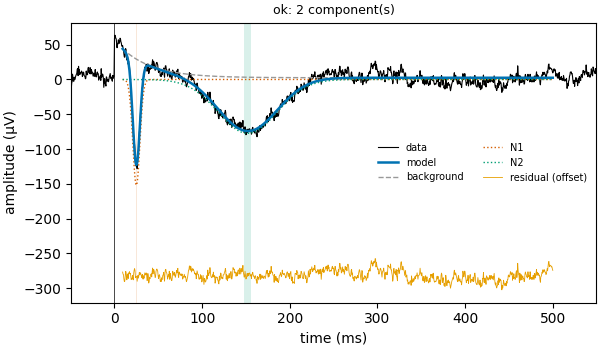
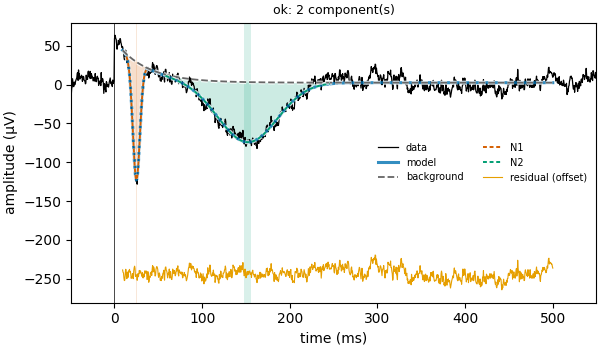
Rebuild the website: filled component areas in plot_fit

diff --git a/searchindex.js b/searchindex.js
@@ -1,1 +1,1 @@
-Search.setIndex({"alltitles":{"01: Model description":[[1,null]],"Computation times":[[2,null],[4,null]],"Conceptual overview":[[1,"conceptual-overview"]],"Conclusion":[[1,"conclusion"]],"Describing the curve":[[1,"describing-the-curve"]],"Get started":[[3,"get-started"]],"Install":[[3,"install"]],"Introduction":[[1,"introduction"]],"Making an example curve":[[1,"making-an-example-curve"]],"Mathematical description":[[1,"mathematical-description"]],"Reading the numbers on the curve":[[1,"reading-the-numbers-on-the-curve"]],"Trying another curve":[[1,"trying-another-curve"]],"Tutorials":[[0,null]],"evoparam":[[3,null]]},"docnames":["auto_tutorials/index","auto_tutorials/plot_01_model_description","auto_tutorials/sg_execution_times","index","sg_execution_times"],"envversion":{"sphinx":66,"sphinx.domains.c":3,"sphinx.domains.changeset":1,"sphinx.domains.citation":1,"sphinx.domains.cpp":9,"sphinx.domains.index":1,"sphinx.domains.javascript":3,"sphinx.domains.math":2,"sphinx.domains.python":4,"sphinx.domains.rst":2,"sphinx.domains.std":2,"sphinx_gallery.gen_gallery":1},"filenames":["auto_tutorials/index.rst","auto_tutorials/plot_01_model_description.rst","auto_tutorials/sg_execution_times.rst","index.rst","sg_execution_times.rst"],"indexentries":{},"objects":{},"objnames":{},"objtypes":{},"terms":{"A":1,"Each":1,"Here":1,"If":1,"In":[1,3],"It":1,"The":1,"These":1,"This":1,"To":1,"What":1,"When":1,"a_k":1,"across":1,"activ":1,"add":1,"alreadi":1,"amplitud":1,"ani":1,"answer":1,"anyon":1,"arrow":1,"ask":1,"auto_tutori":2,"averag":1,"away":1,"axi":1,"b":1,"back":1,"background":[1,3],"bar":1,"befor":1,"bell":1,"better":1,"big":1,"black":1,"blue":1,"bottom":1,"brain":1,"broad":1,"bump":[1,3],"call":1,"ccep":1,"cell":3,"centr":1,"chang":1,"clean":1,"clear":1,"close":1,"code":1,"colab":3,"color":1,"com":3,"come":1,"compar":1,"compon":1,"constant":1,"curv":0,"dash":1,"decid":1,"describ":3,"descript":[0,2,3,4],"doc":4,"doe":[0,1],"dot":1,"download":1,"draw":1,"earlier":1,"electr":1,"electrod":1,"end":1,"equip":1,"everi":1,"everyth":1,"evok":[1,3],"evoparam":[0,1],"exampl":[0,2,4],"execut":[2,4],"explain":1,"exponenti":1,"extra":1,"fade":1,"fast":1,"fig":1,"figur":1,"file":[2,4],"find":1,"first":[0,1],"fit":1,"fit2":1,"fit_respons":1,"fix":1,"flash":1,"formula":1,"found":1,"front":3,"full":1,"galleri":[0,1,4],"gen_respons":1,"generat":[0,1],"get":1,"git":3,"github":3,"give":[1,3],"given":1,"go":1,"goe":1,"half":1,"happen":1,"height":[1,3],"help":1,"hidden":1,"high":1,"https":3,"import":1,"introduct":0,"invent":1,"ipynb":1,"jump":1,"jupyt":[1,3],"just":1,"k":1,"keep":1,"know":1,"label":1,"latenc":1,"later":1,"learn":1,"left":1,"length":1,"let":1,"level":1,"light":1,"like":1,"line":[1,3],"look":1,"made":1,"mani":1,"maximum":1,"mb":[2,4],"mean":1,"measur":1,"mem":[2,4],"microvolt":1,"millisecond":1,"minut":1,"miss":1,"model":[0,2,3,4],"move":1,"ms":1,"n":1,"n1":1,"n2":1,"name":1,"need":1,"negat":1,"new":1,"next":1,"nois":1,"notebook":[1,3],"noth":1,"now":1,"one":[0,1],"onli":1,"orang":1,"order":1,"page":1,"parameter":3,"part":1,"peak":1,"pip":3,"plot":[1,3],"plot_01_model_descript":[1,2,4],"plot_annotated_fit":1,"plot_fit":1,"plot_respons":1,"possibl":1,"preset":1,"print":1,"puls":1,"put":1,"py":[1,2,4],"python":1,"qualiti":1,"r2":1,"random":1,"readi":1,"real":1,"receiv":1,"record":1,"recov":1,"remov":1,"repeat":1,"report":1,"respons":[1,3],"restart":3,"result":1,"right":1,"run":[1,3],"s":1,"s_k":1,"scale":1,"script":1,"second":1,"see":1,"seed":1,"session":3,"set":1,"shape":1,"sharp":1,"short":1,"show":[0,1],"shown":1,"signal":1,"signal2":1,"simpl":1,"size":1,"slow":[1,3],"slowli":1,"small":1,"smaller":1,"sound":1,"sourc":1,"sphinx":[0,1],"start":[0,1],"step":[0,1],"stimulus":1,"stronger":1,"sum":1,"sum_":1,"summari":1,"t":1,"thick":1,"three":1,"time":[1,3],"times2":1,"tini":1,"total":[1,2,4],"tutori":[1,4],"two":1,"use":1,"usual":1,"varepsilon":1,"voltag":1,"want":1,"wave":1,"whatev":1,"whi":1,"whose":1,"wide":1,"width":[1,3],"wiggl":1,"window":1,"without":1,"work":1,"written":1,"x":1,"xlim":1,"y":1,"yannbellec":3,"zip":1,"\u00b5v":1},"titles":["Tutorials","01: Model description","Computation times","evoparam","Computation times"],"titleterms":{"anoth":1,"comput":[2,4],"conceptu":1,"conclus":1,"curv":1,"describ":1,"descript":1,"evoparam":3,"exampl":1,"get":3,"instal":3,"introduct":1,"make":1,"mathemat":1,"model":1,"number":1,"overview":1,"read":1,"start":3,"time":[2,4],"tri":1,"tutori":0}})
+Search.setIndex({"alltitles":{"01: Model description":[[1,null]],"Computation times":[[2,null],[4,null]],"Conceptual overview":[[1,"conceptual-overview"]],"Conclusion":[[1,"conclusion"]],"Describing the curve":[[1,"describing-the-curve"]],"Get started":[[3,"get-started"]],"Install":[[3,"install"]],"Introduction":[[1,"introduction"]],"Making an example curve":[[1,"making-an-example-curve"]],"Mathematical description":[[1,"mathematical-description"]],"Reading the numbers on the curve":[[1,"reading-the-numbers-on-the-curve"]],"Trying another curve":[[1,"trying-another-curve"]],"Tutorials":[[0,null]],"evoparam":[[3,null]]},"docnames":["auto_tutorials/index","auto_tutorials/plot_01_model_description","auto_tutorials/sg_execution_times","index","sg_execution_times"],"envversion":{"sphinx":66,"sphinx.domains.c":3,"sphinx.domains.changeset":1,"sphinx.domains.citation":1,"sphinx.domains.cpp":9,"sphinx.domains.index":1,"sphinx.domains.javascript":3,"sphinx.domains.math":2,"sphinx.domains.python":4,"sphinx.domains.rst":2,"sphinx.domains.std":2,"sphinx_gallery.gen_gallery":1},"filenames":["auto_tutorials/index.rst","auto_tutorials/plot_01_model_description.rst","auto_tutorials/sg_execution_times.rst","index.rst","sg_execution_times.rst"],"indexentries":{},"objects":{},"objnames":{},"objtypes":{},"terms":{"A":1,"Each":1,"Here":1,"If":1,"In":[1,3],"It":1,"The":1,"These":1,"This":1,"To":1,"What":1,"When":1,"a_k":1,"across":1,"activ":1,"add":1,"alreadi":1,"amplitud":1,"ani":1,"answer":1,"anyon":1,"area":1,"arrow":1,"ask":1,"auto_tutori":2,"averag":1,"away":1,"axi":1,"b":1,"back":1,"background":[1,3],"bar":1,"befor":1,"bell":1,"better":1,"big":1,"black":1,"blue":1,"bottom":1,"brain":1,"broad":1,"bump":[1,3],"call":1,"can":1,"ccep":1,"cell":3,"centr":1,"chang":1,"clean":1,"clear":1,"close":1,"code":1,"colab":3,"color":1,"colour":1,"com":3,"come":1,"compar":1,"compon":1,"constant":1,"curv":0,"dash":1,"decid":1,"describ":3,"descript":[0,2,3,4],"doc":4,"doe":[0,1],"dot":1,"download":1,"draw":1,"earlier":1,"electr":1,"electrod":1,"end":1,"equip":1,"everi":1,"everyth":1,"evok":[1,3],"evoparam":[0,1],"exampl":[0,2,4],"execut":[2,4],"explain":1,"exponenti":1,"extra":1,"fade":1,"fals":1,"fast":1,"fig":1,"figur":1,"file":[2,4],"fill":1,"find":1,"first":[0,1],"fit":1,"fit2":1,"fit_respons":1,"fix":1,"flash":1,"formula":1,"found":1,"front":3,"full":1,"galleri":[0,1,4],"gen_respons":1,"generat":[0,1],"get":1,"git":3,"github":3,"give":[1,3],"given":1,"go":1,"goe":1,"grey":1,"half":1,"happen":1,"height":[1,3],"help":1,"hidden":1,"high":1,"https":3,"import":1,"introduct":0,"invent":1,"ipynb":1,"jump":1,"jupyt":[1,3],"just":1,"k":1,"keep":1,"know":1,"label":1,"latenc":1,"later":1,"learn":1,"left":1,"length":1,"let":1,"level":1,"light":1,"like":1,"line":[1,3],"look":1,"made":1,"mani":1,"maximum":1,"mb":[2,4],"mean":1,"measur":1,"mem":[2,4],"microvolt":1,"millisecond":1,"minut":1,"miss":1,"model":[0,2,3,4],"move":1,"ms":1,"n":1,"n1":1,"n2":1,"name":1,"need":1,"negat":1,"new":1,"next":1,"nois":1,"notebook":[1,3],"noth":1,"now":1,"one":[0,1],"onli":1,"orang":1,"order":1,"page":1,"parameter":3,"part":1,"peak":1,"pip":3,"plot":[1,3],"plot_01_model_descript":[1,2,4],"plot_annotated_fit":1,"plot_fit":1,"plot_respons":1,"possibl":1,"preset":1,"print":1,"puls":1,"put":1,"py":[1,2,4],"python":1,"qualiti":1,"r2":1,"random":1,"readi":1,"real":1,"receiv":1,"record":1,"recov":1,"remov":1,"repeat":1,"report":1,"respons":[1,3],"restart":3,"result":1,"right":1,"run":[1,3],"s":1,"s_k":1,"scale":1,"script":1,"second":1,"see":1,"seed":1,"session":3,"set":1,"shade":1,"shade_color":1,"shape":1,"sharp":1,"short":1,"show":[0,1],"shown":1,"signal":1,"signal2":1,"simpl":1,"size":1,"slow":[1,3],"slowli":1,"small":1,"smaller":1,"sound":1,"sourc":1,"space":1,"sphinx":[0,1],"start":[0,1],"step":[0,1],"stimulus":1,"stronger":1,"sum":1,"sum_":1,"summari":1,"t":1,"thick":1,"three":1,"time":[1,3],"times2":1,"tini":1,"total":[1,2,4],"turn":1,"tutori":[1,4],"two":1,"use":1,"usual":1,"varepsilon":1,"voltag":1,"want":1,"wave":1,"whatev":1,"whi":1,"whose":1,"wide":1,"width":[1,3],"wiggl":1,"window":1,"without":1,"work":1,"written":1,"x":1,"xlim":1,"y":1,"yannbellec":3,"zip":1,"\u00b5v":1},"titles":["Tutorials","01: Model description","Computation times","evoparam","Computation times"],"titleterms":{"anoth":1,"comput":[2,4],"conceptu":1,"conclus":1,"curv":1,"describ":1,"descript":1,"evoparam":3,"exampl":1,"get":3,"instal":3,"introduct":1,"make":1,"mathemat":1,"model":1,"number":1,"overview":1,"read":1,"start":3,"time":[2,4],"tri":1,"tutori":0}})

diff --git a/auto_tutorials/plot_01_model_description.html b/auto_tutorials/plot_01_model_description.html
@@ -165,9 +165,11 @@ electrical pulses.</p>
 </div>
 <p>evoparam found the two bumps we put in, with the right timing, height and width. It
 named them <strong>N1</strong> and <strong>N2</strong>: N for a bump that goes down, then a number in order of time.</p>
-<p>In the figure, the black line is our curve and the thick blue line is the model. The
-dotted lines show each part of the model on its own, and the orange line at the bottom is
-what is left over.</p>
+<p>In the figure, the black line is our curve and the thick blue line is the model. The grey
+dashed line is the background. Each coloured area is one bump: it fills the space between
+the background and the curve. The orange line at the bottom is what is left over.</p>
+<p>The colour of the areas can be changed, for example <code class="docutils literal notranslate"><span class="pre">plot_fit(fit,</span> <span class="pre">shade_color=&quot;grey&quot;)</span></code>,
+or they can be turned off with <code class="docutils literal notranslate"><span class="pre">shade=False</span></code>.</p>
 </section>
 <section id="reading-the-numbers-on-the-curve">
 <h2>Reading the numbers on the curve<a class="headerlink" href="#reading-the-numbers-on-the-curve" title="Link to this heading">¶</a></h2>
@@ -263,7 +265,7 @@ small compared to the noise, evoparam starts to miss them, as anyone would.</p>
 <p>evoparam describes a curve as a background, a few bumps and some noise, and gives the
 timing, height and width of each bump. In the next tutorials, we look at the settings of
 the model and use it on real recordings.</p>
-<p class="sphx-glr-timing"><strong>Total running time of the script:</strong> (0 minutes 20.097 seconds)</p>
+<p class="sphx-glr-timing"><strong>Total running time of the script:</strong> (0 minutes 1.724 seconds)</p>
 <div class="sphx-glr-footer sphx-glr-footer-example docutils container" id="sphx-glr-download-auto-tutorials-plot-01-model-description-py">
 <div class="sphx-glr-download sphx-glr-download-jupyter docutils container">
 <p><a class="reference download internal" download="" href="../_downloads/fc75f50fc2efd4dd4ab0291b9e2d23f9/plot_01_model_description.ipynb"><code class="xref download docutils literal notranslate"><span class="pre">Download</span> <span class="pre">Jupyter</span> <span class="pre">notebook:</span> <span class="pre">plot_01_model_description.ipynb</span></code></a></p>

diff --git a/sg_execution_times.html b/sg_execution_times.html
@@ -81,7 +81,7 @@
       
   <section id="computation-times">
 <span id="sphx-glr-sg-execution-times"></span><h1>Computation times<a class="headerlink" href="#computation-times" title="Link to this heading">¶</a></h1>
-<p><strong>00:20.097</strong> total execution time for 1 file <strong>from all galleries</strong>:</p>
+<p><strong>00:01.724</strong> total execution time for 1 file <strong>from all galleries</strong>:</p>
 <div class="docutils container">
 <style scoped>
 <link href="https://cdnjs.cloudflare.com/ajax/libs/twitter-bootstrap/5.3.0/css/bootstrap.min.css" rel="stylesheet" />
@@ -103,7 +103,7 @@ $(document).ready( function () {
 </thead>
 <tbody>
 <tr class="row-even"><td><p><a class="reference internal" href="auto_tutorials/plot_01_model_description.html#sphx-glr-auto-tutorials-plot-01-model-description-py"><span class="std std-ref">01: Model description</span></a> (<code class="docutils literal notranslate"><span class="pre">../docs/tutorials/plot_01_model_description.py</span></code>)</p></td>
-<td><p>00:20.097</p></td>
+<td><p>00:01.724</p></td>
 <td><p>0.0</p></td>
 </tr>
 </tbody>

diff --git a/auto_tutorials/sg_execution_times.html b/auto_tutorials/sg_execution_times.html
@@ -81,7 +81,7 @@
       
   <section id="computation-times">
 <span id="sphx-glr-auto-tutorials-sg-execution-times"></span><h1>Computation times<a class="headerlink" href="#computation-times" title="Link to this heading">¶</a></h1>
-<p><strong>00:20.097</strong> total execution time for 1 file <strong>from auto_tutorials</strong>:</p>
+<p><strong>00:01.724</strong> total execution time for 1 file <strong>from auto_tutorials</strong>:</p>
 <div class="docutils container">
 <style scoped>
 <link href="https://cdnjs.cloudflare.com/ajax/libs/twitter-bootstrap/5.3.0/css/bootstrap.min.css" rel="stylesheet" />
@@ -103,7 +103,7 @@ $(document).ready( function () {
 </thead>
 <tbody>
 <tr class="row-even"><td><p><a class="reference internal" href="plot_01_model_description.html#sphx-glr-auto-tutorials-plot-01-model-description-py"><span class="std std-ref">01: Model description</span></a> (<code class="docutils literal notranslate"><span class="pre">plot_01_model_description.py</span></code>)</p></td>
-<td><p>00:20.097</p></td>
+<td><p>00:01.724</p></td>
 <td><p>0.0</p></td>
 </tr>
 </tbody>

diff --git a/_downloads/fffbd92de9532af77bdd8868014d8ce7/plot_01_model_description.py b/_downloads/fffbd92de9532af77bdd8868014d8ce7/plot_01_model_description.py
@@ -95,9 +95,12 @@ print(fit)
 # evoparam found the two bumps we put in, with the right timing, height and width. It
 # named them **N1** and **N2**: N for a bump that goes down, then a number in order of time.
 #
-# In the figure, the black line is our curve and the thick blue line is the model. The
-# dotted lines show each part of the model on its own, and the orange line at the bottom is
-# what is left over.
+# In the figure, the black line is our curve and the thick blue line is the model. The grey
+# dashed line is the background. Each coloured area is one bump: it fills the space between
+# the background and the curve. The orange line at the bottom is what is left over.
+#
+# The colour of the areas can be changed, for example ``plot_fit(fit, shade_color="grey")``,
+# or they can be turned off with ``shade=False``.
 
 ###################################################################################################
 # Reading the numbers on the curve
